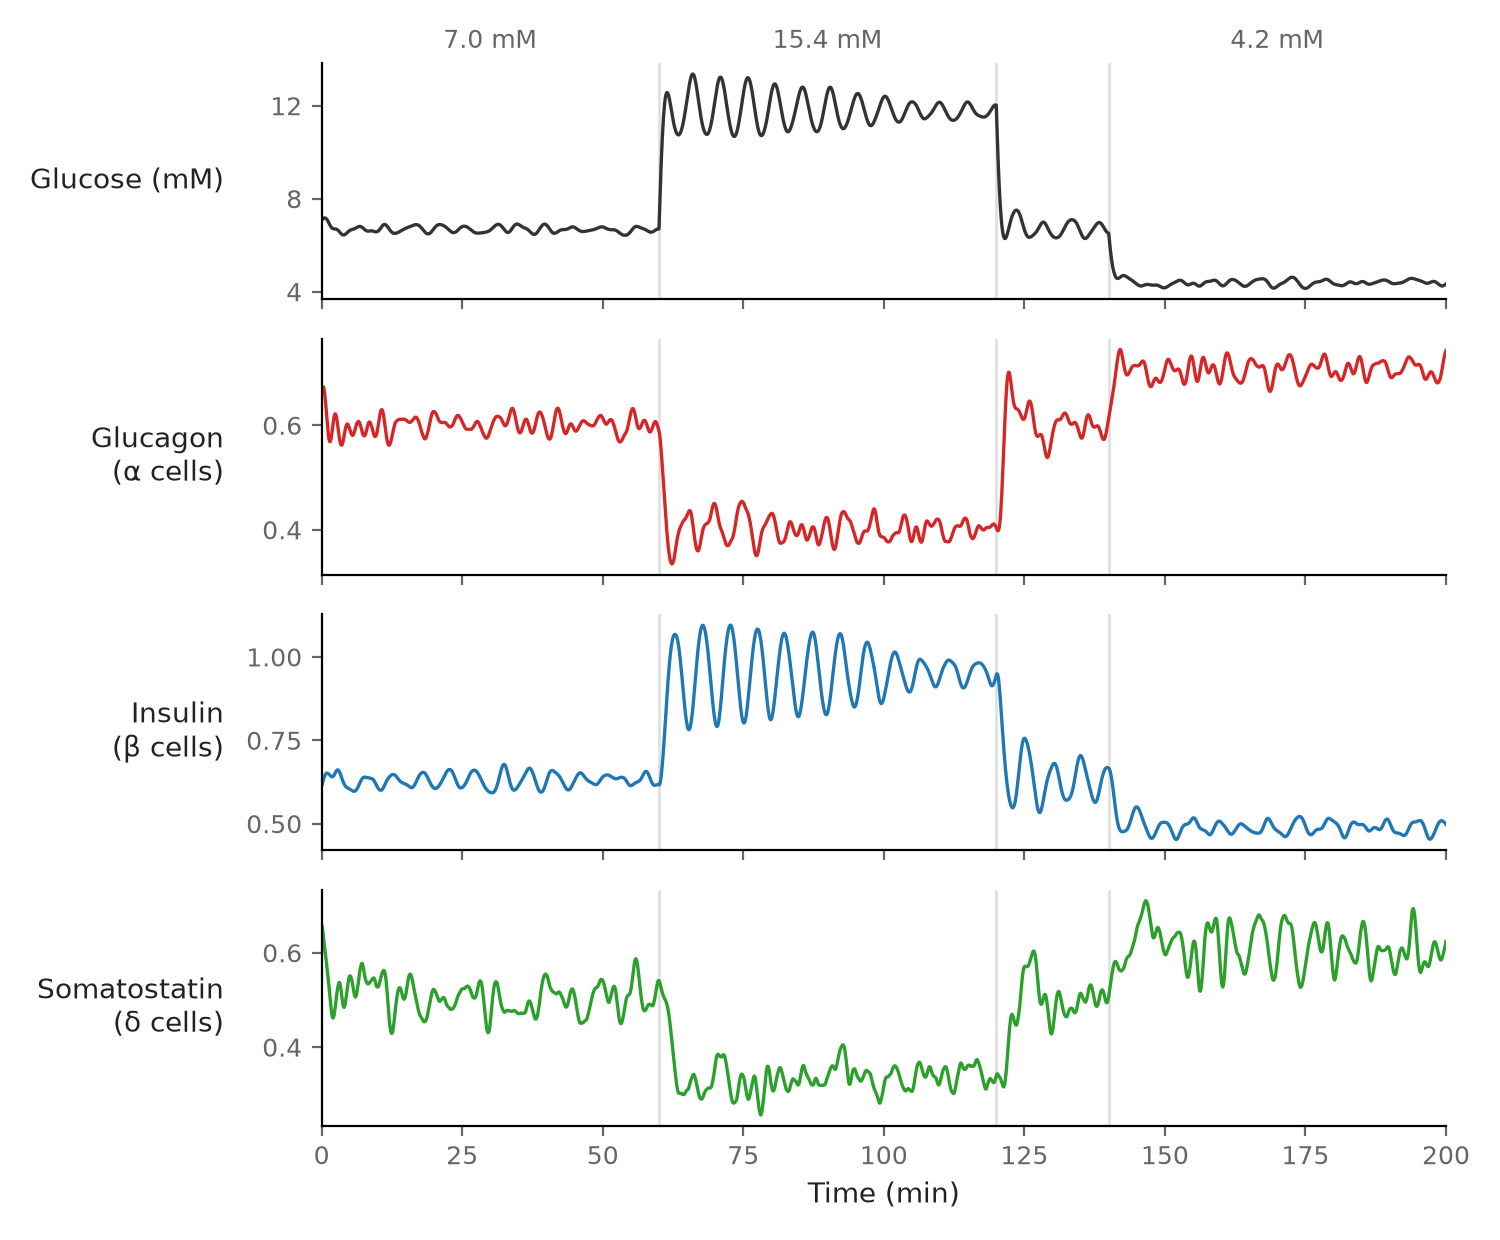
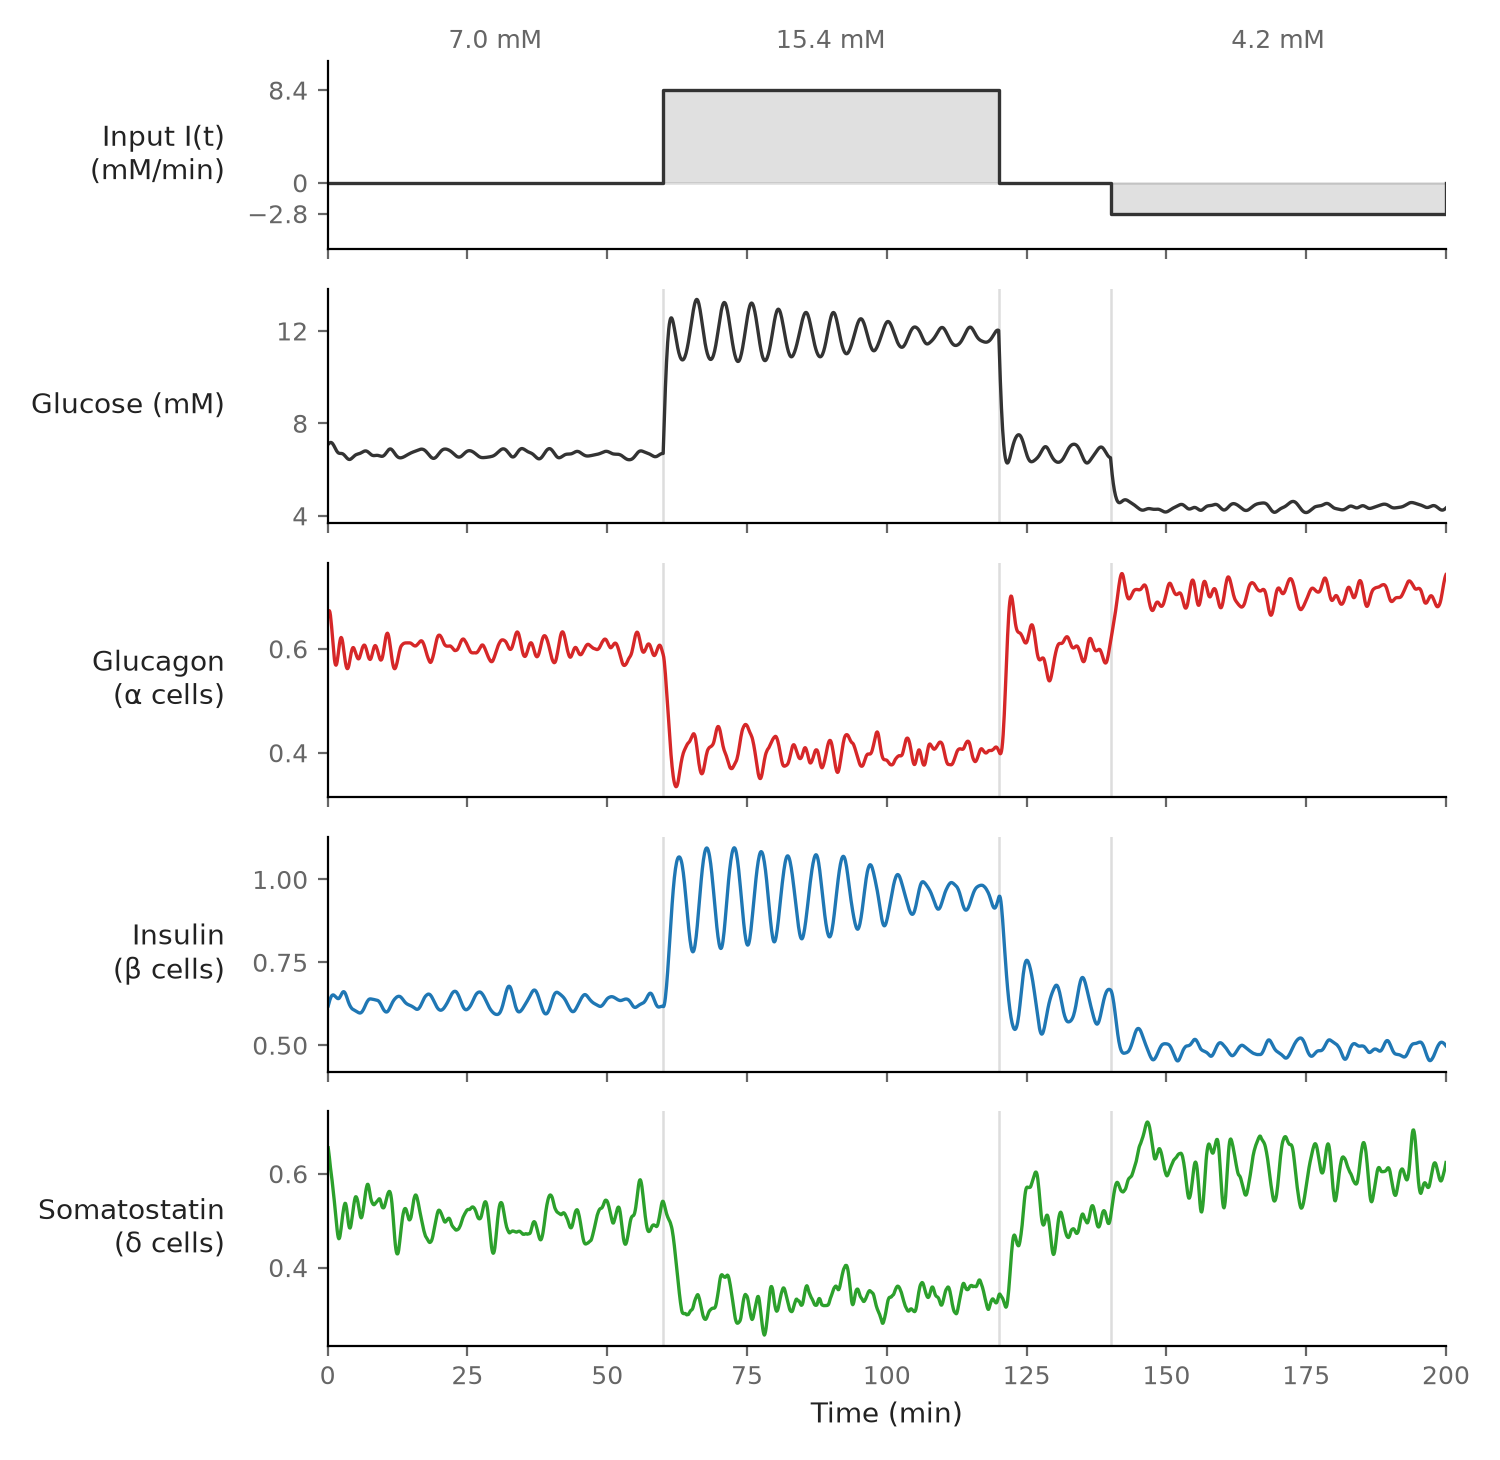
README figure: add glucose input I(t) panel

diff --git a/scripts/make_readme_figures.py b/scripts/make_readme_figures.py
@@ -33,8 +33,19 @@ def timeseries():
             ("ha", "Glucagon\n(α cells)", C["alpha"], 1.0),
             ("hb", "Insulin\n(β cells)", C["beta"], 1.0),
             ("hd", "Somatostatin\n(δ cells)", C["delta"], 1.0)]
-    fig, axes = plt.subplots(4, 1, figsize=(7.5, 6.2), sharex=True)
-    for ax, (stem, label, col, scale) in zip(axes, rows):
+    fig, axes = plt.subplots(5, 1, figsize=(7.5, 7.3), sharex=True,
+                             gridspec_kw={"height_ratios": [0.8, 1, 1, 1, 1]})
+    # external glucose input I(t) of the simulation (code: st = X*extamp*g0, X = 0.6, extamp = 2)
+    ti = np.array([0, 60, 60, 120, 120, 140, 140, 200, 200])
+    ii = np.array([0, 0, 8.4, 8.4, 0, 0, -2.8, -2.8, 0])
+    ax = axes[0]
+    ax.fill_between(ti, ii, 0, color=C["glu"], alpha=0.15, lw=0)
+    ax.plot(ti, ii, color=C["glu"], lw=1.2)
+    ax.axhline(0, color=GRID, lw=0.9, zorder=0)
+    ax.set_ylabel("Input I(t)\n(mM/min)", fontsize=10, color=INK, rotation=0, ha="right", va="center", labelpad=8)
+    ax.set_yticks([-2.8, 0, 8.4]); ax.set_yticklabels(["−2.8", "0", "8.4"]); ax.set_ylim(-6, 11)
+    ax.spines[["top", "right"]].set_visible(False); ax.tick_params(labelsize=9, colors=MUTED)
+    for ax, (stem, label, col, scale) in zip(axes[1:], rows):
         t, v = load(stem)
         ax.plot(t, v * scale, color=col, lw=1.2)
         ax.set_ylabel(label, fontsize=10, color=INK, rotation=0, ha="right", va="center", labelpad=8)

diff --git a/README.md b/README.md
@@ -38,7 +38,7 @@ The original simulation code by Taegeun Song is kept unchanged in [`original/`](
 <p align="center">
   <img src="results/readme_timeseries.png" width="75%">
   <br>
-  <em>Example run: blood glucose and the hormone output per cell (glucagon, insulin, somatostatin)
+  <em>Example run: external glucose input I(t), blood glucose and the hormone output per cell (glucagon, insulin, somatostatin)
   of one islet while the glucose input is changed (7.0 → 15.4 → 4.2 mM).</em>
 </p>
 
